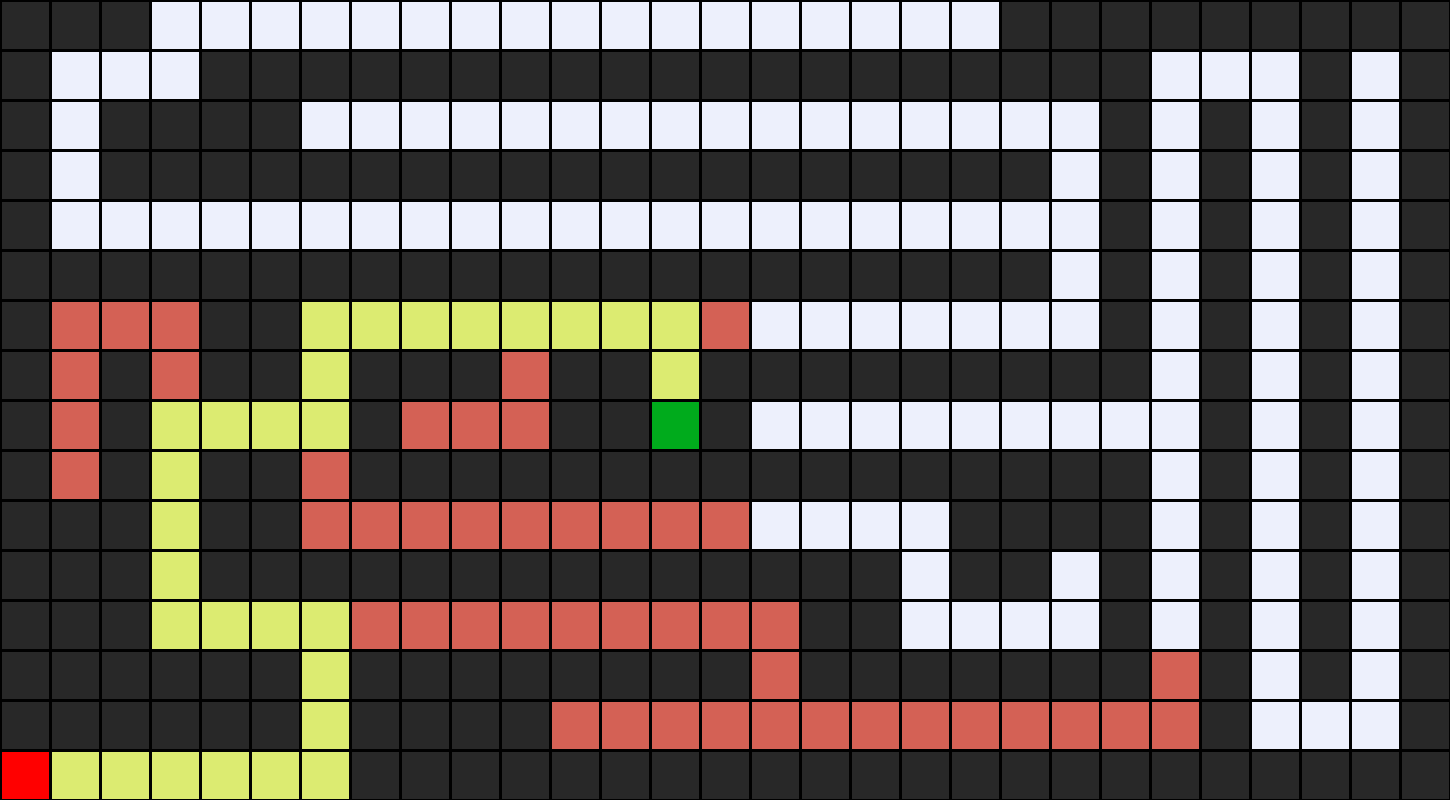
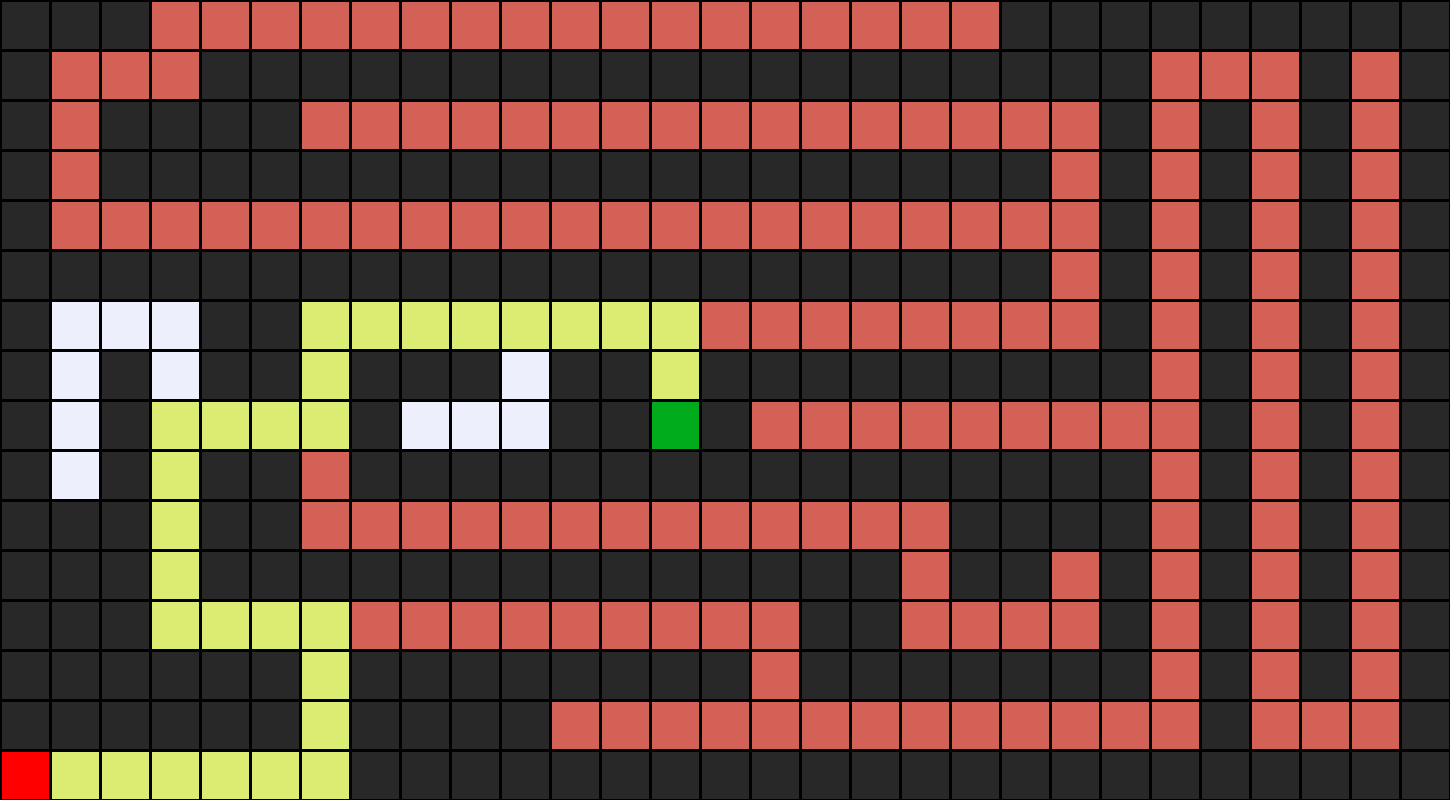
Change to QueueFrontier

Changed region(s): [[0.031, 0.0, 0.9621, 0.9375], [0.031, 0.375, 0.1552, 0.625], [0.2793, 0.4375, 0.4034, 0.5625]]

diff --git a/solving-maze/python-sol/maze.py b/solving-maze/python-sol/maze.py
@@ -123,7 +123,7 @@ class Maze():
 
         # Initialize frontier to just the starting position
         start = Node(state=self.start, parent=None, action=None)
-        frontier = QueueFrontier()
+        frontier = StackFrontier()
         frontier.add(start)
 
         # Initialize an empty explored set
